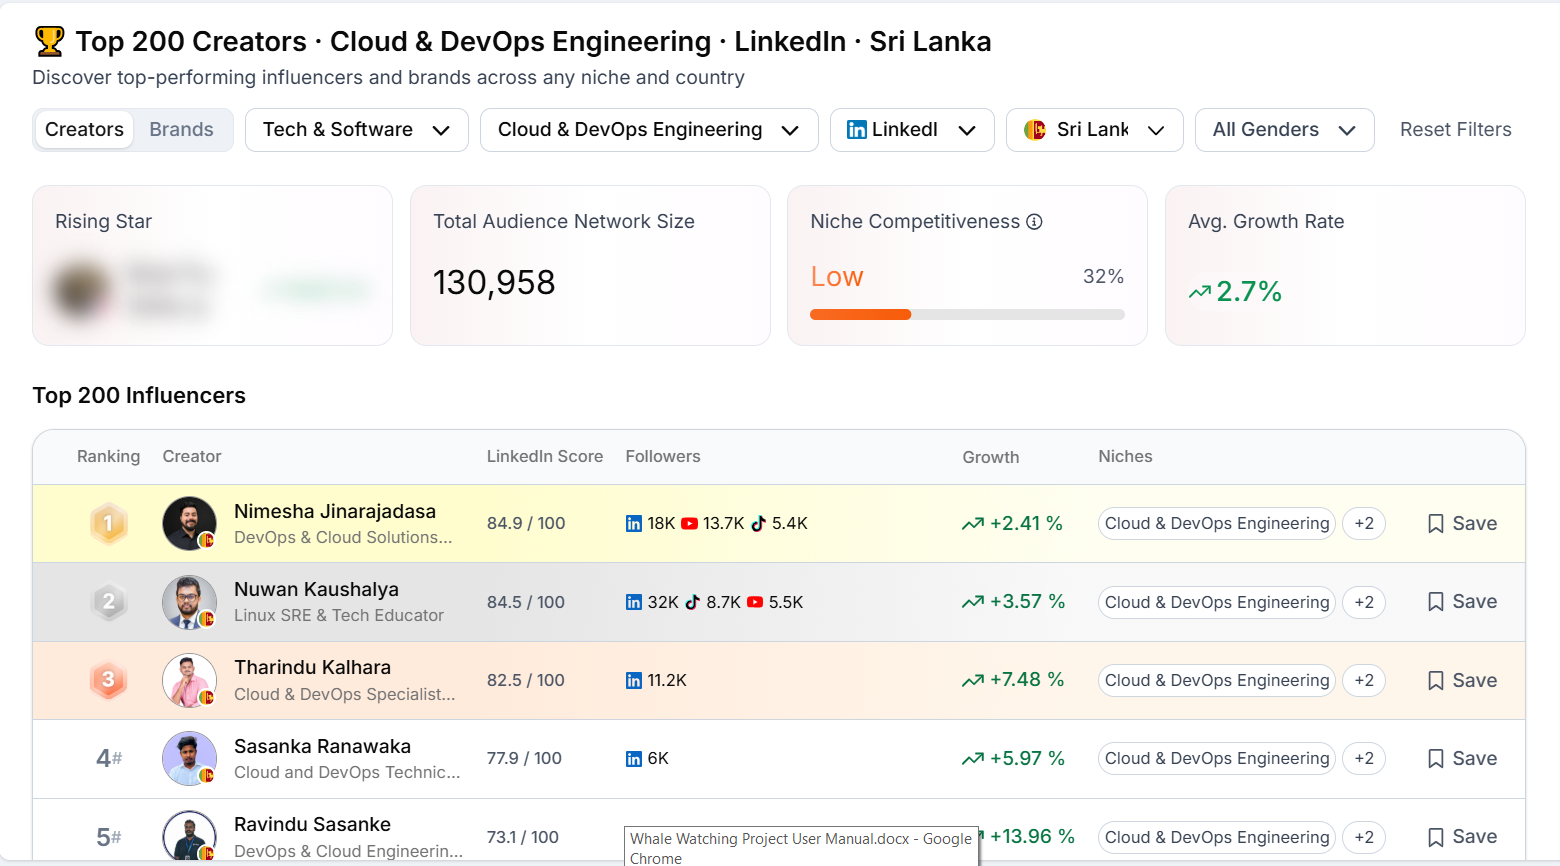
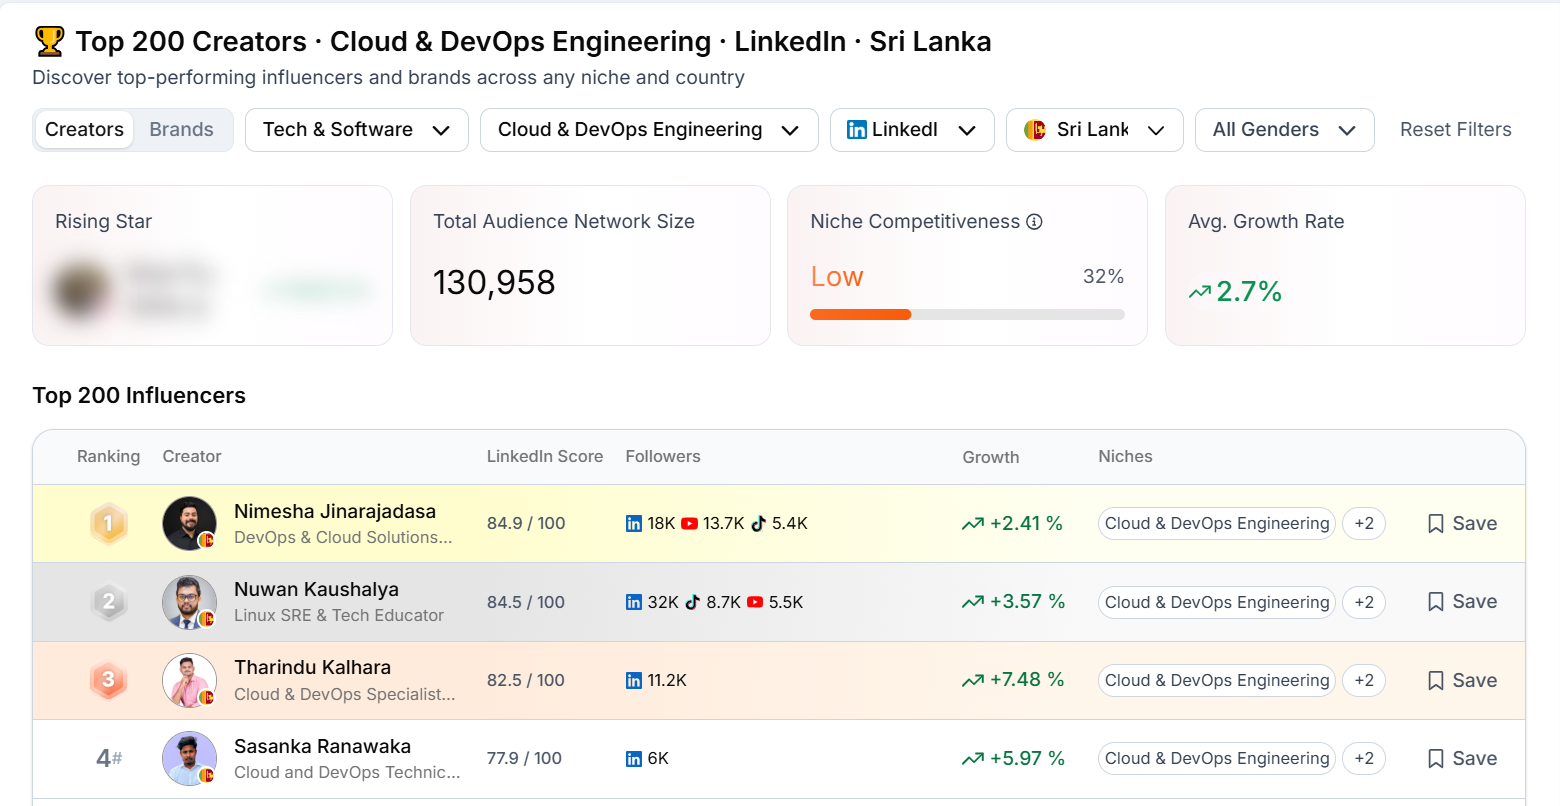
frontend: font changes apply to portolio

diff --git a/client/src/features/hero/HeroSection.tsx b/client/src/features/hero/HeroSection.tsx
@@ -160,79 +160,99 @@ export function HeroSection() {
       >
         {/* Left side */}
         <motion.div
-          variants={reduceMotion ? undefined : containerVariants}
-          initial={reduceMotion ? false : "hidden"}
-          animate={reduceMotion ? undefined : "visible"}
+          variants={
+            reduceMotion
+              ? undefined
+              : containerVariants
+          }
+          initial={
+            reduceMotion
+              ? false
+              : "hidden"
+          }
+          animate={
+            reduceMotion
+              ? undefined
+              : "visible"
+          }
           className="max-w-3xl 2xl:pl-8"
         >
-          {/* 0.15s */}
-          <motion.p
-            variants={reduceMotion ? undefined : itemVariants}
-            className="
-              mb-4
-              text-lg
-              font-medium
-              text-slate-700
+         <motion.p
+  variants={itemVariants}
+  className="
+    space-grotesk-bold
+    text-[24px]
+    leading-none
+    tracking-[-0.02em]
+    text-slate-900
+    dark:text-white
 
-              dark:text-slate-300
-            "
-          >
-            Hi I’m,
-          </motion.p>
+    sm:text-[28px]
+    lg:text-[30px]
+  "
+>
+  Hi, I’m
+</motion.p>
+          {/* Name */}
+          <motion.div className="overflow-hidden">
+<motion.h1
+  initial={{
+    y: "105%",
+  }}
+  animate={{
+    y: 0,
+  }}
+  transition={{
+    duration: 0.8,
+    delay: 0.27,
+    ease: [0.22, 1, 0.36, 1],
+  }}
+  className="
+    hero-space-grotesk
 
-          {/* 0.27s - masked name reveal */}
-          <motion.div
-            variants={reduceMotion ? undefined : itemVariants}
-            className="overflow-hidden pb-2"
-          >
-            <motion.h1
-              initial={
-                reduceMotion
-                  ? false
-                  : {
-                      opacity: 0,
-                      y: "105%",
-                    }
-              }
-              animate={
-                reduceMotion
-                  ? undefined
-                  : {
-                      opacity: 1,
-                      y: 0,
-                    }
-              }
-              transition={{
-                duration: 0.85,
-                delay: 0.27,
-                ease: [0.22, 1, 0.36, 1],
-              }}
-              className="
-                text-5xl
-                font-bold
-                tracking-tight
-                text-[#2563EB]
+    mt-4
 
-                sm:text-6xl
-                xl:text-7xl
+    bg-gradient-to-r
+    from-[#2F6FF0]
+    via-[#2389EE]
+    to-[#10B6E8]
 
-                dark:text-[#3B82F6]
-              "
-            >
-              Sasanka Ranawaka
-            </motion.h1>
+    bg-clip-text
+    text-transparent
+
+    text-[52px]
+    leading-[0.98]
+    font-bold
+    tracking-[-0.03em]
+
+    sm:text-[62px]
+    md:text-[70px]
+    lg:text-[74px]
+    xl:text-[72px]
+  "
+>
+  Sasanka Ranawaka 
+</motion.h1>
           </motion.div>
 
-          {/* 0.39s */}
+          {/* Animated role */}
           <motion.div
-            variants={reduceMotion ? undefined : itemVariants}
+            variants={
+              reduceMotion
+                ? undefined
+                : itemVariants
+            }
           >
             <AnimatedRole />
           </motion.div>
 
-          {/* 0.51s */}
+          {/* Description */}
           <motion.p
-            variants={reduceMotion ? undefined : itemVariants}
+            variants={
+              reduceMotion
+                ? undefined
+                : itemVariants
+            }
             className="
               mt-8
               max-w-xl
@@ -245,13 +265,19 @@ export function HeroSection() {
               sm:text-xl
             "
           >
-            Building scalable cloud infrastructure, automating deployments,
-            and sharing knowledge through technical writing.
+            Building scalable cloud
+            infrastructure, automating
+            deployments, and sharing knowledge
+            through technical writing.
           </motion.p>
 
-          {/* 0.63s */}
+          {/* Buttons */}
           <motion.div
-            variants={reduceMotion ? undefined : itemVariants}
+            variants={
+              reduceMotion
+                ? undefined
+                : itemVariants
+            }
             className="mt-10 flex flex-col gap-4 sm:flex-row"
           >
             {/* View Projects */}

diff --git a/client/src/features/journey/JourneySection.tsx b/client/src/features/journey/JourneySection.tsx
@@ -91,7 +91,7 @@ export function JourneySection() {
             My Journey
           </span>
 
-          <h2 className="mt-5 text-4xl font-bold tracking-tight text-slate-950 dark:text-white sm:text-5xl lg:text-6xl">
+          <h2 className="mt-5 space-grotesk-bold text-4xl font-bold tracking-tight text-slate-950 dark:text-white sm:text-5xl lg:text-6xl">
             Professional{" "}
             <span className="text-[#168BFF]">
               Journey
@@ -157,7 +157,7 @@ export function JourneySection() {
     </div>
 
     <div>
-      <h3 className="text-2xl font-bold text-slate-950 dark:text-white">
+      <h3 className="space-grotesk-bold text-2xl font-bold text-slate-950 dark:text-white">
         Honors & Recognition
       </h3>
 
@@ -218,7 +218,7 @@ export function JourneySection() {
               <Award size={26} />
             </div>
 
-            <h3 className="text-2xl font-bold text-slate-950 dark:text-white">
+            <h3 className="space-grotesk-bold text-2xl font-bold text-slate-950 dark:text-white">
               Certifications
             </h3>
           </div>

diff --git a/client/src/features/contact/ContactSection.tsx b/client/src/features/contact/ContactSection.tsx
@@ -80,7 +80,7 @@ export function ContactSection() {
           </div>
 
           {/* Heading */}
-          <h2 className="text-4xl font-bold tracking-tight text-slate-950 dark:text-white sm:text-5xl lg:text-6xl">
+          <h2 className="space-grotesk-bold text-4xl font-bold tracking-tight text-slate-950 dark:text-white sm:text-5xl lg:text-6xl">
             Let’s Build Something{" "}
             <span className="text-[#168BFF]">
               Amazing Together
@@ -127,6 +127,7 @@ export function ContactSection() {
 >
   <h3
     className="
+      space-grotesk-bold
       text-2xl
       font-bold
       text-slate-950
@@ -170,7 +171,7 @@ export function ContactSection() {
     dark:shadow-[0_20px_70px_rgba(2,6,23,0.4)]
   "
 >
-  <h3 className="text-2xl font-bold text-slate-800 dark:text-white">
+  <h3 className="space-grotesk-bold text-2xl font-bold text-slate-800 dark:text-white">
     Find Me
   </h3>
 

diff --git a/client/src/features/about/AboutSection.tsx b/client/src/features/about/AboutSection.tsx
@@ -80,23 +80,22 @@ export function AboutSection() {
 
           {/* Main heading */}
           <h2
-            className="
-              mt-6
-              text-4xl
-              font-bold
-              tracking-tight
-              text-slate-950
+           className="
+            mt-8
+    space-grotesk-bold
+    text-4xl
+    tracking-tight
+    text-slate-950
+    dark:text-white
 
-              dark:text-white
-
-              sm:text-5xl
-              lg:text-6xl
-            "
-          >
-            Technical{" "}
-            <span className="text-[#168BFF]">
-              Expertise
-            </span>
+    sm:text-5xl
+    lg:text-6xl
+  "
+>
+  Technical{" "}
+  <span className="text-[#168BFF]">
+    Expertise
+  </span>
           </h2>
 
           {/* Description */}

diff --git a/client/src/features/journey/TimelineCard.tsx b/client/src/features/journey/TimelineCard.tsx
@@ -83,7 +83,7 @@ export function TimelineCard({
           <Icon size={25} />
         </div>
 
-        <h3 className="text-2xl font-bold text-slate-950 dark:text-white">
+        <h3 className="space-grotesk-bold text-2xl font-bold text-slate-950 dark:text-white">
           {section.title}
         </h3>
       </div>
@@ -159,7 +159,7 @@ export function TimelineCard({
                   {entry.period}
                 </p>
 
-                <h4 className="mt-2 text-lg font-bold leading-7 text-slate-950 dark:text-white">
+                <h4 className="mt-2 space-grotesk-bold text-lg font-bold leading-7 text-slate-950 dark:text-white">
                   {entry.title}
                 </h4>
 

diff --git a/client/src/features/about/ExpertiseCard.tsx b/client/src/features/about/ExpertiseCard.tsx
@@ -92,15 +92,16 @@ export function ExpertiseCard({
         </div>
 
         <h3
-          className={`
-            text-xl font-bold sm:text-2xl
+            className="
+    space-grotesk-bold
+    text-xl
+    tracking-[-0.02em]
+    text-blue-600
 
-            ${
-              isBlue
-                ? "text-blue-600 dark:text-blue-400"
-                : "text-cyan-600 dark:text-cyan-400"
-            }
-          `}
+    dark:text-cyan-300
+
+    sm:text-2xl
+  "
         >
           {title}
         </h3>

diff --git a/client/src/features/services/ServicesSection.tsx b/client/src/features/services/ServicesSection.tsx
@@ -72,7 +72,7 @@ export function ServicesSection() {
             What I Offer
           </span>
 
-          <h2 className="mt-5 text-4xl font-bold tracking-tight text-slate-950 dark:text-white sm:text-5xl lg:text-6xl">
+          <h2 className="mt-5 space-grotesk-bold text-4xl font-bold tracking-tight text-slate-950 dark:text-white sm:text-5xl lg:text-6xl">
             Professional{" "}
             <span className="text-[#168BFF]">
               Services

diff --git a/client/src/features/skills/SkillsSection.tsx b/client/src/features/skills/SkillsSection.tsx
@@ -77,7 +77,7 @@ export function SkillsSection() {
             My Skills
           </span>
 
-          <h2 className="mt-5 text-4xl font-bold tracking-tight text-slate-950 dark:text-white sm:text-5xl lg:text-6xl">
+          <h2 className="mt-5 space-grotesk-bold text-4xl font-bold tracking-tight text-slate-950 dark:text-white sm:text-5xl lg:text-6xl">
             Technical{" "}
             <span className="text-[#168BFF]">
               Expertise

diff --git a/client/src/features/projects/ProjectsSection.tsx b/client/src/features/projects/ProjectsSection.tsx
@@ -80,7 +80,7 @@ export function ProjectsSection() {
             My Work
           </span>
 
-          <h2 className="mt-5 text-4xl font-bold tracking-tight text-slate-950 dark:text-white sm:text-5xl lg:text-6xl">
+          <h2 className="mt-5 space-grotesk-bold text-4xl font-bold tracking-tight text-slate-950 dark:text-white sm:text-5xl lg:text-6xl">
             Featured{" "}
             <span className="text-[#168BFF]">
               Projects

diff --git a/client/src/features/blogs/BlogsSection.tsx b/client/src/features/blogs/BlogsSection.tsx
@@ -84,7 +84,7 @@ export function BlogsSection() {
           </div>
 
           {/* Heading */}
-          <h2 className="text-4xl font-bold tracking-tight text-slate-950 dark:text-white sm:text-5xl lg:text-6xl">
+          <h2 className="space-grotesk-bold text-4xl font-bold tracking-tight text-slate-950 dark:text-white sm:text-5xl lg:text-6xl">
             Latest{" "}
             <span className="text-[#168BFF]">
               Blog Posts

diff --git a/client/src/features/journey/HonorRecognitionCard.tsx b/client/src/features/journey/HonorRecognitionCard.tsx
@@ -152,7 +152,7 @@ export function HonorRecognitionCard({
 
         {/* Content */}
         <div className="flex flex-col justify-center">
-          <h4 className="text-xl font-bold leading-7 text-slate-950 dark:text-white">
+          <h4 className="space-grotesk-bold text-xl font-bold leading-7 text-slate-950 dark:text-white">
             {honor.title}
           </h4>
 

diff --git a/client/src/features/contact/ContactInfo.tsx b/client/src/features/contact/ContactInfo.tsx
@@ -107,7 +107,7 @@ export function ContactInfo() {
           <Users size={30} />
         </div>
 
-        <h3 className="text-3xl font-bold leading-tight text-slate-950 dark:text-white">
+        <h3 className="space-grotesk-bold text-3xl font-bold leading-tight text-slate-950 dark:text-white">
           Let’s work
           <br />
           together
